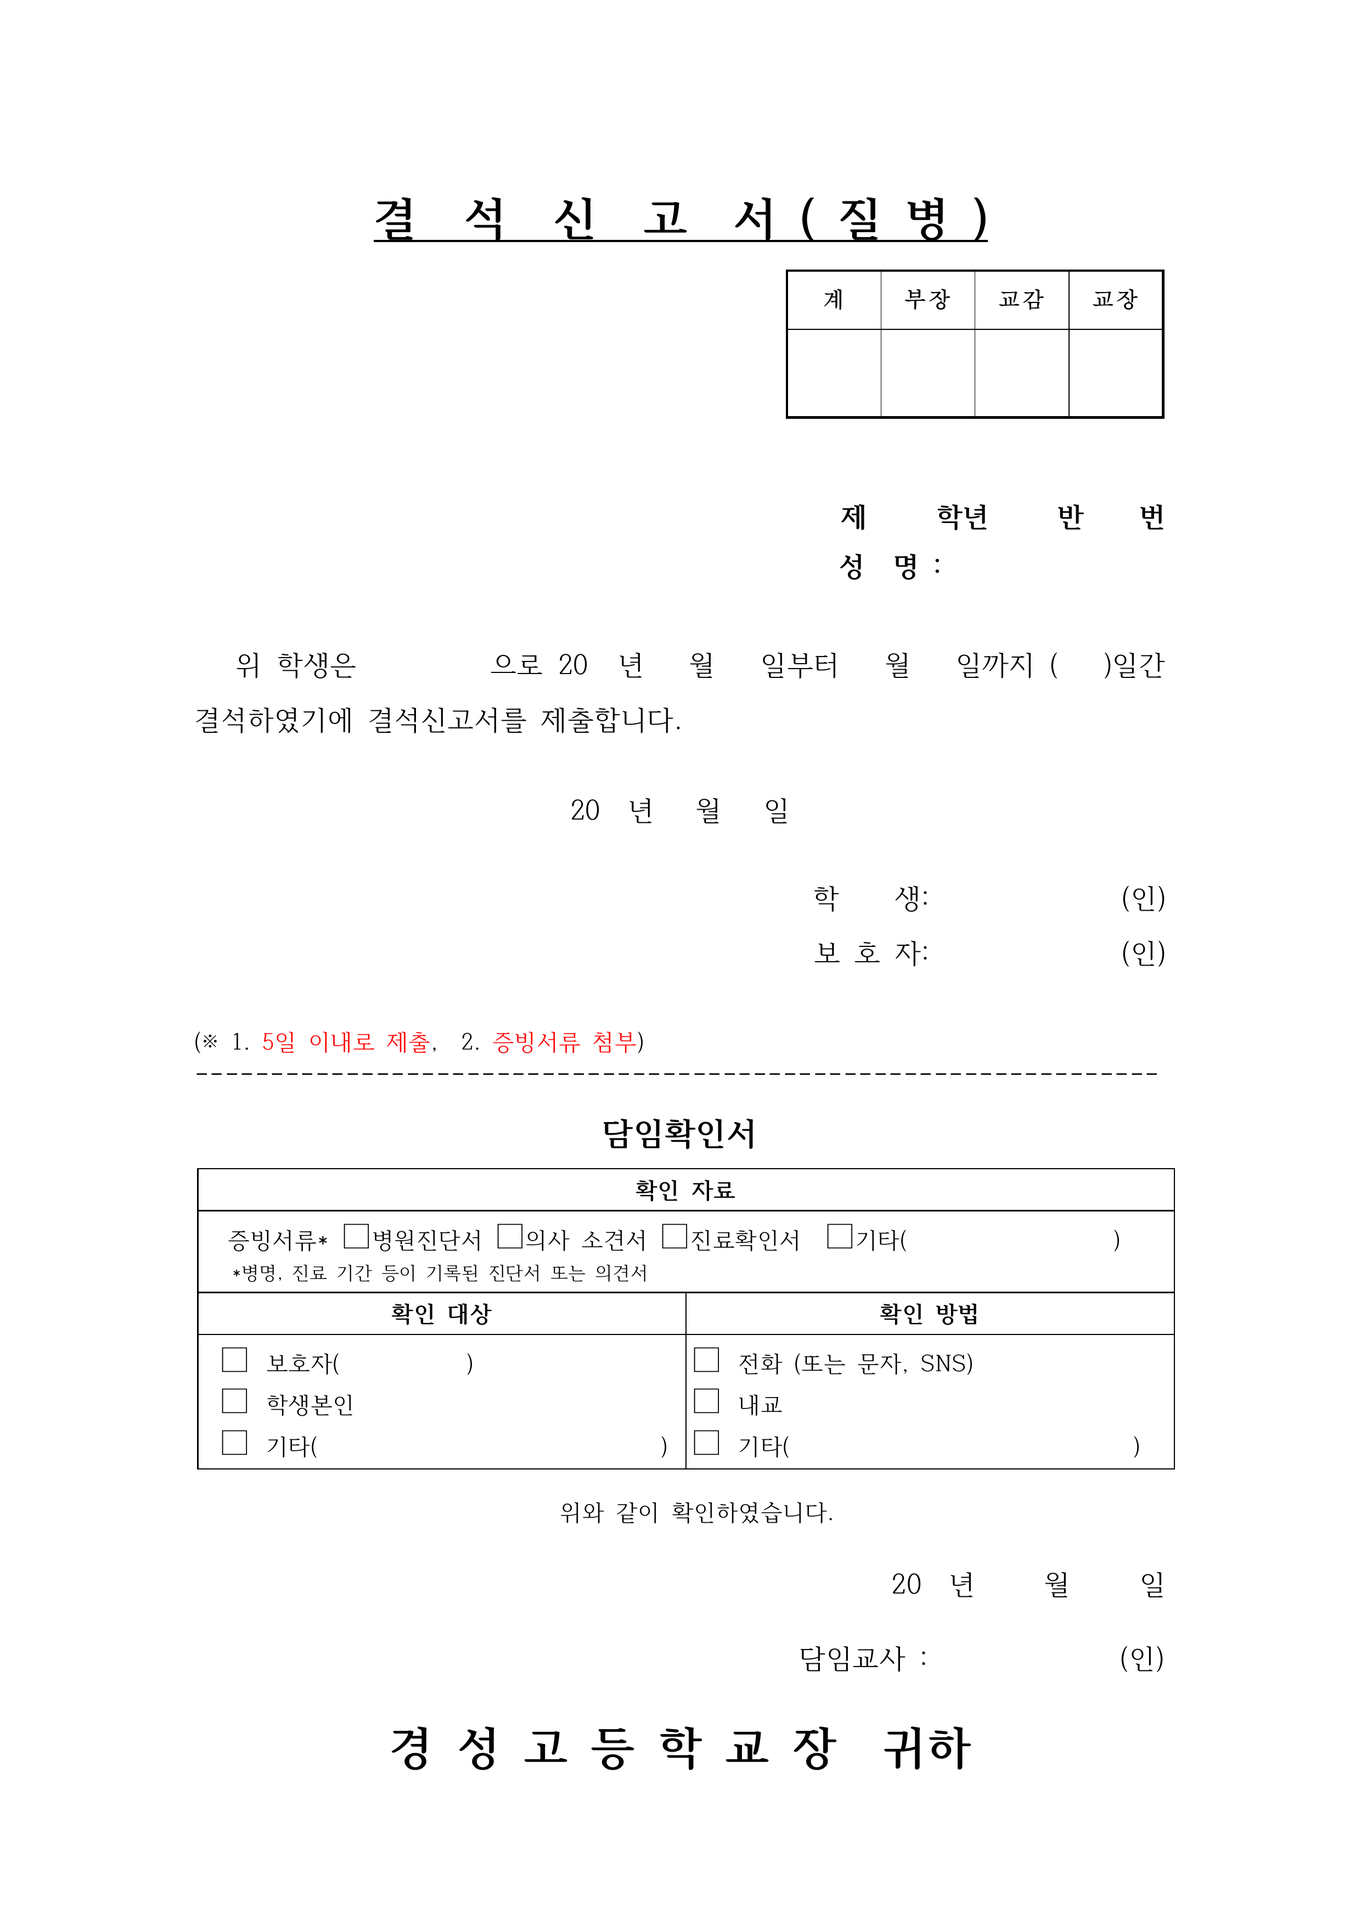
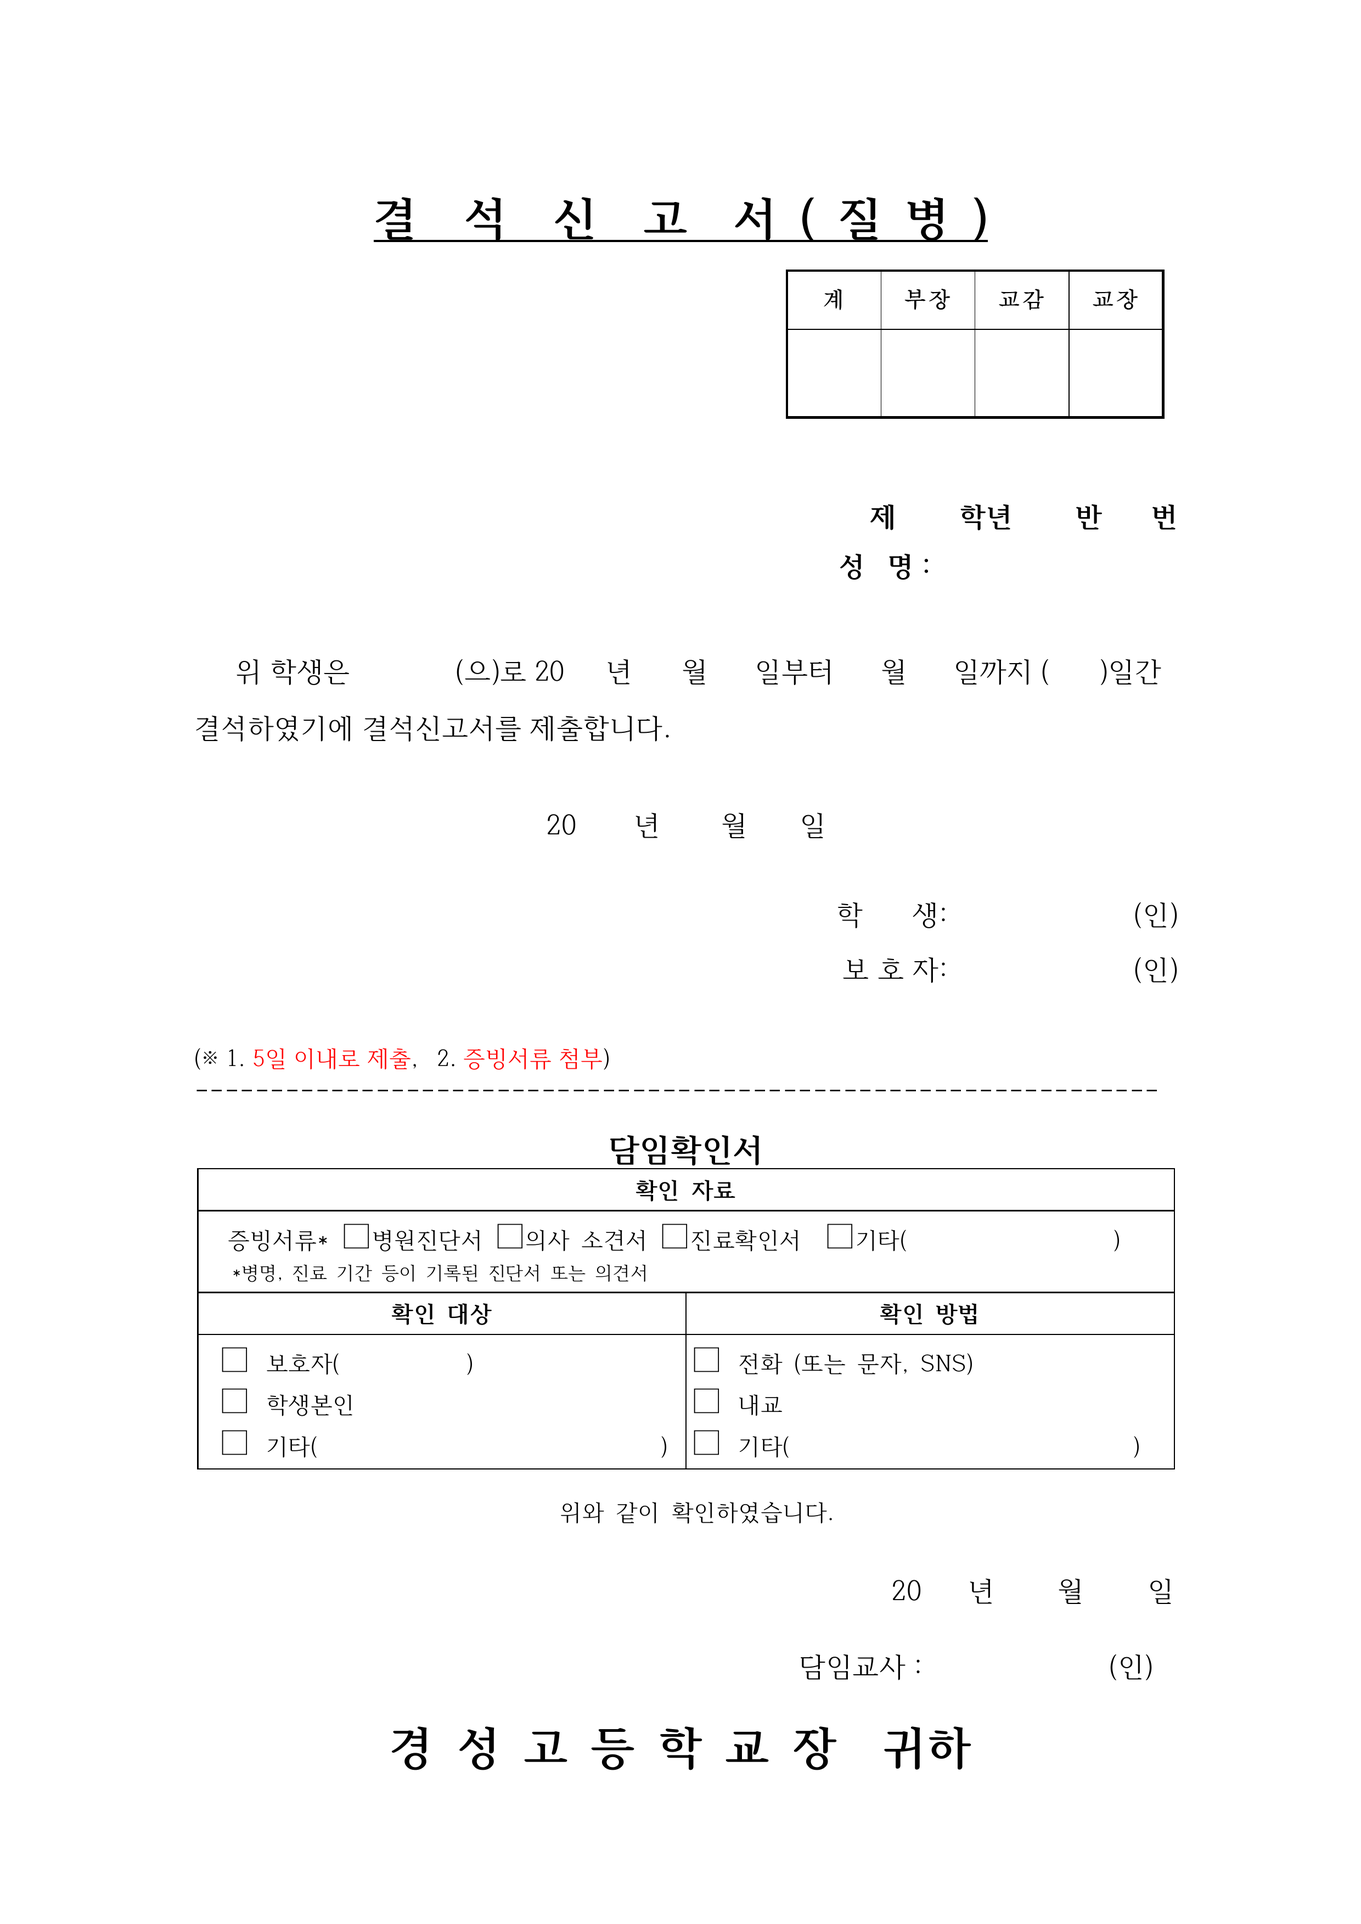
결석신고서: 서명칸 2배 확대, 새 양식 이미지로 교체, 손글씨 예시 참고해 굵기/크기 재조정
- 서명 입력 캔버스 높이를 2배로(aspect-ratio 700/200 -> 700/400)
- 사용자가 만든 두 번째 양식 PDF(날짜 칸 간격 확대)로 absence-report-form.png 교체
- FIELD_BOXES 전체를 새 PDF의 pdftotext -bbox 좌표로 다시 추출
- 학번/사유/결석기간/제출일 날짜에 font-weight:800(.ov-emphasis) 적용,
  확인일자/서명 이름은 기존 굵기 유지 - 사용자가 보낸 손글씨 예시 참고
- 학번/이름 칸 크기 증가폭을 h+5.5 -> h+3.0으로 낮춤(세로 클리핑 안전
  마진 재검증, 실제 스크린샷으로 가시적 클리핑 없음 확인)

diff --git a/absence-report.html b/absence-report.html
@@ -86,6 +86,13 @@
   .ov-text{ position:absolute; display:flex; align-items:center; font-weight:600; color:#15202e; font-size:13px; line-height:1; white-space:nowrap; overflow:hidden; font-family:'Noto Sans KR',sans-serif; }
   .ov-text.ov-center{ justify-content:center; text-align:center; }
   .ov-text.ov-left{ justify-content:flex-start; padding-left:3%; }
+  /* 이름칸(학생 이름, 보호자 성명)만 자간을 조금 넓힌다 — 사유/날짜/학번 등
+     다른 .ov-text 필드는 이 클래스가 없어 영향받지 않는다. */
+  .ov-text.ov-name-field{ letter-spacing:0.04em; }
+  /* 학번(학년/반/번)·사유·결석 기간·제출일 — 사용자가 올려준 손글씨 예시
+     양식에서 이 칸들이 굵게 강조돼 있던 걸 참고해 font-weight를 더 올렸다.
+     확인일자(담임확인서)/서명 이름은 예시에서도 평범한 굵기라 그대로 둔다. */
+  .ov-text.ov-emphasis{ font-weight:800; }
   /* line-height:1이 빠져있으면 body의 기본값(1.5)을 그대로 물려받아, 줄 높이가
      font-size의 1.5배가 된다 — factor를 아무리 1.0 이하로 낮춰도 실제 줄 높이
      비율은 factor×1.5가 돼버려 여전히 세로로 잘린다(체크 표시/서명 이름에서
@@ -95,7 +102,7 @@
      "보호자:" 뒤 빈칸(원래 FIELD_BOXES.studentSign 등)에 작게, 서명은 그 옆이
      아니라 인쇄된 "(인)" 글자 위에 정가운데로 겹치도록 완전히 분리된 좌표
      (*SignImg, 아래 FIELD_BOXES 참고)에 따로 얹는다. */
-  .ov-sign-name{ position:absolute; display:flex; align-items:center; font-weight:600; color:#15202e; white-space:nowrap; overflow:hidden; font-family:'Noto Sans KR',sans-serif; margin-left:0.2em; line-height:1; }
+  .ov-sign-name{ position:absolute; display:flex; align-items:center; font-weight:600; color:#15202e; white-space:nowrap; overflow:hidden; font-family:'Noto Sans KR',sans-serif; margin-left:0.2em; line-height:1; letter-spacing:0.04em; }
   .ov-sign-img-box{ position:absolute; pointer-events:none; }
   .ov-sign-img{ width:100%; height:100%; object-fit:contain; filter:contrast(1.35); }
   .ov-sign-empty{ position:absolute; border:1px dashed rgba(38,64,133,0.32); border-radius:3px; }
@@ -116,7 +123,7 @@
   .modal-overlay{ position:fixed; inset:0; background:rgba(20,24,50,0.45); display:flex; align-items:center; justify-content:center; z-index:60; padding:16px; }
   .modal-box{ background:#fff; border-radius:12px; padding:20px 22px; max-width:480px; width:100%; max-height:90vh; overflow:auto; }
   .modal-box h3{ margin:0 0 12px; font-size:17.3px; color:var(--stamp); }
-  #signCanvas{ width:100%; aspect-ratio:700/200; border:1px solid var(--rule); border-radius:8px; background:#fff; touch-action:none; display:block; }
+  #signCanvas{ width:100%; aspect-ratio:700/400; border:1px solid var(--rule); border-radius:8px; background:#fff; touch-action:none; display:block; }
 
   .closed-note{ font-size:15.3px; color:var(--ink-soft); text-align:center; padding:30px 10px; }
 
@@ -235,7 +242,7 @@
     <h3 id="signModalTitle">서명</h3>
     <div id="signModalMsg"></div>
     <div class="field"><label id="signNameLabel">이름</label><input type="text" id="signNameInput"></div>
-    <div class="field"><label>서명</label><canvas id="signCanvas" width="700" height="200"></canvas></div>
+    <div class="field"><label>서명</label><canvas id="signCanvas" width="700" height="400"></canvas></div>
     <div class="btn-row">
       <button type="button" class="btn secondary small" id="btnClearSign">지우기</button>
       <button type="button" class="btn secondary small" id="btnCancelSign">취소</button>
@@ -266,61 +273,69 @@
     return location.origin + location.pathname.replace(/[^/]*$/, '') + 'absence-report.html?id=' + encodeURIComponent(id);
   }
 
-  // ===== 양식 이미지 위 좌표 맵 — absence-report-form.png(1653×2337px, 원본 PDF를
-  // 200dpi로 래스터화)에서 각 빈칸의 픽셀 bbox를 pdftotext -bbox로 뽑아 그대로 옮긴
+  // ===== 양식 이미지 위 좌표 맵 — absence-report-form.png(2480×3505px, 원본 PDF를
+  // 300dpi로 래스터화)에서 각 빈칸의 픽셀 bbox를 pdftotext -bbox로 뽑아 그대로 옮긴
   // 것. 퍼센트로 변환해 쓰므로 컨테이너 폭이 바뀌어도 항상 같은 칸 위에 얹힌다.
-  // absence-report-form.png은 300dpi(2480×3505px)로 래스터화한 원본 PDF 그대로다 —
-  // 서명/인쇄 품질이 흐려지지 않도록 처음 썼던 200dpi본에서 한 단계 올렸다(좌표는
-  // 전부 1.5배 스케일, 비율은 동일).
+  // ** 사용자가 직접 만든 두 번째 양식(날짜 쓰는 곳 간격을 넓힌 버전)으로 전면
+  // 교체됐다 — 모든 좌표를 그 새 PDF의 pdftotext -bbox 결과에서 처음부터 다시
+  // 뽑았다. 전체 쪽 크기(2480×3505)와 줄 높이(49.9 안팎)는 이전 양식과 거의
+  // 동일하지만, 날짜 칸들의 가로 폭은 눈에 띄게 넓어졌다(예: submitYear
+  // 49.9→88.9, confirmYear 49.9→69.0) — 그만큼 숫자가 가로로 잘릴 걱정 없이
+  // 더 여유 있게 들어간다.
   const IMG_W = 2480, IMG_H = 3505;
   const FIELD_BOXES = {
-    grade:        { x:1581.0, y:917.6,  w:124.5, h:49.9 },
-    classNo:      { x:1803.0, y:917.6,  w:124.5, h:49.9 },
-    no:           { x:1976.4, y:917.6,  w:99.9,  h:49.9 },
-    name:         { x:1716.0, y:1007.4, w:408.0, h:49.9 },
-    // 사유/결석 기간 줄은 전부 y:1195.2(원래 1187.2에서 +8 — "살짝 아래로"
-    // 요청에 맞춰 조정).
-    reason:       { x:649.5,  y:1195.2, w:244.0, h:49.9 },
-    startYear:    { x:1072.5, y:1195.2, w:53.8,  h:49.9 },
-    startMonth:   { x:1174.8, y:1195.2, w:81.0,  h:49.9 },
-    startDay:     { x:1304.2, y:1195.2, w:81.4,  h:49.9 },
-    endMonth:     { x:1531.2, y:1195.2, w:81.0,  h:49.9 },
-    endDay:       { x:1660.6, y:1195.2, w:80.8,  h:49.9 },
-    days:         { x:1929.9, y:1195.2, w:81.0,  h:49.9 },
-    submitYear:   { x:1094.4, y:1451.8, w:49.9,  h:49.9 },
-    submitMonth:  { x:1192.8, y:1451.8, w:75.0,  h:49.9 },
-    submitDay:    { x:1316.2, y:1451.8, w:75.0,  h:49.9 },
-    studentSign:  { x:1694.6, y:1611.8, w:349.8, h:49.9 },
-    guardianSign: { x:1694.6, y:1711.6, w:349.8, h:49.9 },
-    // 서명 이미지 전용 박스 — "(인)" 글자의 실제 인쇄 위치를 이미지 픽셀을 직접
-    // 스캔해 측정한 중심 좌표(학생/보호자 모두 x중심 2083.5)에, 줄 높이(49.9)의
-    // 1.8배 크기(세로 89.8, 가로는 서명 획 비율에 맞춰 2.2:1)로 겹쳐 얹는다.
-    // "(인)" 중심에 수학적으로는 정확히 맞혔지만, 그 1.8배 크기 때문에 아래로
-    // 뻗는 절반이 바로 아래 줄(※ 안내 문구)과 가까워 보여 "서명이 너무 아래로
-    // 들어간다"는 피드백을 받았다 — y를 20px(네이티브) 위로 올려 아래쪽 여유를
-    // 더 확보했다(위쪽은 학생/보호자 두 칸 사이 간격이 이미 넉넉해 그대로 둬도
-    // 서로 겹치지 않는다).
-    studentSignImg:  { x:1984.7, y:1572.1, w:197.6, h:89.8 },
-    guardianSignImg: { x:1984.7, y:1672.1, w:197.6, h:89.8 },
-    evHospital:   { x:621.6,  y:2220.5, w:56.8,  h:58.5 },
-    evOpinion:    { x:901.5,  y:2220.5, w:56.7,  h:58.5 },
-    evTreatment:  { x:1201.8, y:2220.5, w:56.7,  h:58.5 },
-    evOther:      { x:1502.7, y:2220.5, w:56.7,  h:58.5 },
-    evOtherText:  { x:1653.4, y:2238.6, w:375.0, h:41.4 },
-    targetGuardian:     { x:399.3, y:2445.8, w:56.7,  h:58.3 },
-    targetGuardianName: { x:620.0, y:2463.9, w:229.0, h:41.4 },
-    targetSelf:         { x:399.3, y:2521.2, w:56.7,  h:58.3 },
-    targetOther:        { x:399.3, y:2597.1, w:56.7,  h:58.3 },
-    targetOtherText:    { x:579.5, y:2615.2, w:624.5, h:41.4 },
-    methodPhone:      { x:1259.8, y:2445.8, w:56.7,  h:58.3 },
-    methodVisit:      { x:1259.8, y:2521.2, w:56.7,  h:58.3 },
-    methodOther:      { x:1259.8, y:2597.1, w:56.7,  h:58.3 },
-    methodOtherText:  { x:1440.0, y:2615.2, w:624.9, h:41.4 },
-    confirmYear:  { x:1679.6, y:2861.9, w:49.9,  h:49.9 },
-    confirmMonth: { x:1778.1, y:2861.9, w:124.8, h:49.9 },
-    confirmDay:   { x:1951.5, y:2861.9, w:124.8, h:49.9 },
-    teacherSign:  { x:1691.6, y:2997.1, w:349.8, h:49.9 },
-    teacherSignImg: { x:1981.7, y:2957.1, w:197.6, h:89.8 }
+    // grade/classNo/no/name(학번·이름)은 h를 49.9→52.9(+3.0 native px)로 살짝
+    // 키우고 y를 그 절반(1.5px)만큼 올려 중심을 유지한다 — factor는 그대로
+    // OV_TEXT_FACTOR(0.94, 이미 검증된 안전한 여유값)를 쓴다. 더 큰 폭(+5.5)을
+    // 시도했을 때 scrollHeight가 clientHeight보다 정수 px 반올림 경계에서 2px
+    // 더 벌어지는 걸 실측으로 확인해(기존 0.94 여유값 자체가 완전한 안전
+    // 마진은 아니라는 뜻), 실제 스크린샷으로도 깨끗하게 확인되는 +3.0 선에서
+    // 멈췄다 — "1포인트만"이라는 요청의 "그 이상은 넘기지 말라"는 취지에도
+    // 맞고, 담임확인서 기준(이 글 CLAUDE.md의 레퍼런스 손글씨 이미지)과 비교해
+    // 뚜렷이 커 보이는 걸 스크린샷으로 확인했다.
+    grade:        { x:1641.6, y:916.0,  w:98.9,  h:52.9 },
+    classNo:      { x:1853.5, y:916.0,  w:98.9,  h:52.9 },
+    no:           { x:2016.9, y:916.0,  w:73.9,  h:52.9 },
+    name:         { x:1704.6, y:1005.9, w:435.4, h:52.9 },
+    // 사유/결석 기간 줄은 "조금 더 위로" 요청에 맞춰 y를 8px(네이티브) 올렸다.
+    reason:       { x:646.1,  y:1191.2, w:176.4, h:50.0 },
+    startYear:    { x:1037.4, y:1191.2, w:59.0,  h:50.0 },
+    startMonth:   { x:1160.9, y:1191.2, w:73.9,  h:50.0 },
+    startDay:     { x:1299.3, y:1191.2, w:68.5,  h:50.0 },
+    endMonth:     { x:1529.2, y:1191.2, w:68.0,  h:50.0 },
+    endDay:       { x:1661.6, y:1191.2, w:68.0,  h:50.0 },
+    days:         { x:1922.0, y:1191.2, w:74.0,  h:50.0 },
+    submitYear:   { x:1058.7, y:1478.9, w:88.9,  h:49.9 },
+    submitMonth:  { x:1212.1, y:1478.9, w:93.9,  h:49.9 },
+    submitDay:    { x:1370.5, y:1478.9, w:79.0,  h:49.9 },
+    studentSign:  { x:1735.1, y:1641.7, w:323.8, h:49.9 },
+    guardianSign: { x:1735.1, y:1741.6, w:323.8, h:49.9 },
+    // 서명 이미지 전용 박스 — "(인)" 글자의 실제 인쇄 위치를 중심으로, 줄
+    // 높이(49.9)의 1.8배 크기(세로 89.8, 가로는 서명 획 비율에 맞춰 2.2:1)로
+    // 겹쳐 얹는다. 아래로 뻗는 절반이 바로 아래 줄과 가까워 보이지 않도록
+    // y를 20px(네이티브) 위로 올린 기존 보정을 그대로 유지했다 — 새 양식도
+    // 학생/보호자 두 줄 사이 간격(99.9px)이 이전과 거의 같아 그대로 안전하다.
+    studentSignImg:  { x:2008.3, y:1601.8, w:197.6, h:89.8 },
+    guardianSignImg: { x:2008.3, y:1701.7, w:197.6, h:89.8 },
+    evHospital:   { x:621.7,  y:2224.5, w:56.7,  h:58.4 },
+    evOpinion:    { x:901.5,  y:2224.5, w:56.7,  h:58.4 },
+    evTreatment:  { x:1201.8, y:2224.5, w:56.7,  h:58.4 },
+    evOther:      { x:1502.7, y:2224.5, w:56.7,  h:58.4 },
+    evOtherText:  { x:1661.4, y:2238.6, w:359.0, h:41.4 },
+    targetGuardian:     { x:399.3, y:2449.8, w:56.7,  h:58.4 },
+    targetGuardianName: { x:627.9, y:2463.9, w:213.1, h:41.5 },
+    targetSelf:         { x:399.3, y:2525.2, w:56.7,  h:58.4 },
+    targetOther:        { x:399.3, y:2601.1, w:56.7,  h:58.4 },
+    targetOtherText:    { x:587.5, y:2615.2, w:608.4, h:41.5 },
+    methodPhone:      { x:1259.8, y:2449.8, w:56.7,  h:58.4 },
+    methodVisit:      { x:1259.8, y:2525.2, w:56.7,  h:58.4 },
+    methodOther:      { x:1259.8, y:2601.1, w:56.7,  h:58.4 },
+    methodOtherText:  { x:1448.0, y:2615.2, w:608.9, h:41.5 },
+    confirmYear:  { x:1687.6, y:2873.9, w:69.0,  h:49.9 },
+    confirmMonth: { x:1821.0, y:2873.9, w:98.9,  h:49.9 },
+    confirmDay:   { x:1984.4, y:2873.9, w:98.9,  h:49.9 },
+    teacherSign:  { x:1689.6, y:3012.2, w:323.8, h:49.9 },
+    teacherSignImg: { x:1962.8, y:2972.3, w:197.6, h:89.8 }
   };
   function pctBox(b){
     return `left:${(b.x/IMG_W*100).toFixed(3)}%; top:${(b.y/IMG_H*100).toFixed(3)}%; width:${(b.w/IMG_W*100).toFixed(3)}%; height:${(b.h/IMG_H*100).toFixed(3)}%;`;
@@ -371,9 +386,9 @@
   // 조금 더 키워도 된다 — 세로로 잘리지 않는 1.0 이하 선에서, "숫자가 좀 더
   // 커 보였으면 좋겠다"는 요청에 맞춰 0.85를 쓴다.
   const DATE_NUM_FACTOR = 0.85;
-  function fieldText(box, text, align, factor){
+  function fieldText(box, text, align, factor, extraClass){
     if(text === null || text === undefined || text === '') return '';
-    return `<div class="ov-text ov-${align || 'center'}" style="${pctBox(box)} font-size:${ovFontSize(box, factor || OV_TEXT_FACTOR)};">${escapeHtml(text)}</div>`;
+    return `<div class="ov-text ov-${align || 'center'}${extraClass ? ' ' + extraClass : ''}" style="${pctBox(box)} font-size:${ovFontSize(box, factor || OV_TEXT_FACTOR)};">${escapeHtml(text)}</div>`;
   }
   function fieldCheck(box, checked){
     return checked ? `<div class="ov-check" style="${pctBox(box)} font-size:${ovFontSize(box, OV_TEXT_FACTOR)};">✓</div>` : '';
@@ -397,20 +412,20 @@
     const start = ymd(r.start_date), end = ymd(r.end_date), sub = ymd(r.submit_date), conf = ymd(r.confirm_date);
     let html = `<div class="form-overlay-wrap">
       <img src="./absence-report-form.png" class="form-overlay-img" alt="결석신고서 양식">
-      ${fieldText(FIELD_BOXES.grade, r.grade, 'center')}
-      ${fieldText(FIELD_BOXES.classNo, r.class_no, 'center')}
-      ${fieldText(FIELD_BOXES.no, r.no, 'center')}
-      ${fieldText(FIELD_BOXES.name, r.student_name, 'left')}
-      ${fieldText(FIELD_BOXES.reason, r.reason, 'center')}
-      ${fieldText(FIELD_BOXES.startYear, start.y, 'center', DATE_NUM_FACTOR)}
-      ${fieldText(FIELD_BOXES.startMonth, start.m, 'center', DATE_NUM_FACTOR)}
-      ${fieldText(FIELD_BOXES.startDay, start.d, 'center', DATE_NUM_FACTOR)}
-      ${fieldText(FIELD_BOXES.endMonth, end.m, 'center', DATE_NUM_FACTOR)}
-      ${fieldText(FIELD_BOXES.endDay, end.d, 'center', DATE_NUM_FACTOR)}
-      ${fieldText(FIELD_BOXES.days, r.days_count, 'center', DATE_NUM_FACTOR)}
-      ${fieldText(FIELD_BOXES.submitYear, sub.y, 'center', DATE_NUM_FACTOR)}
-      ${fieldText(FIELD_BOXES.submitMonth, sub.m, 'center', DATE_NUM_FACTOR)}
-      ${fieldText(FIELD_BOXES.submitDay, sub.d, 'center', DATE_NUM_FACTOR)}
+      ${fieldText(FIELD_BOXES.grade, r.grade, 'center', null, 'ov-emphasis')}
+      ${fieldText(FIELD_BOXES.classNo, r.class_no, 'center', null, 'ov-emphasis')}
+      ${fieldText(FIELD_BOXES.no, r.no, 'center', null, 'ov-emphasis')}
+      ${fieldText(FIELD_BOXES.name, r.student_name, 'left', null, 'ov-name-field')}
+      ${fieldText(FIELD_BOXES.reason, r.reason, 'center', null, 'ov-emphasis')}
+      ${fieldText(FIELD_BOXES.startYear, start.y, 'center', DATE_NUM_FACTOR, 'ov-emphasis')}
+      ${fieldText(FIELD_BOXES.startMonth, start.m, 'center', DATE_NUM_FACTOR, 'ov-emphasis')}
+      ${fieldText(FIELD_BOXES.startDay, start.d, 'center', DATE_NUM_FACTOR, 'ov-emphasis')}
+      ${fieldText(FIELD_BOXES.endMonth, end.m, 'center', DATE_NUM_FACTOR, 'ov-emphasis')}
+      ${fieldText(FIELD_BOXES.endDay, end.d, 'center', DATE_NUM_FACTOR, 'ov-emphasis')}
+      ${fieldText(FIELD_BOXES.days, r.days_count, 'center', DATE_NUM_FACTOR, 'ov-emphasis')}
+      ${fieldText(FIELD_BOXES.submitYear, sub.y, 'center', DATE_NUM_FACTOR, 'ov-emphasis')}
+      ${fieldText(FIELD_BOXES.submitMonth, sub.m, 'center', DATE_NUM_FACTOR, 'ov-emphasis')}
+      ${fieldText(FIELD_BOXES.submitDay, sub.d, 'center', DATE_NUM_FACTOR, 'ov-emphasis')}
       ${fieldSign(FIELD_BOXES.studentSign, FIELD_BOXES.studentSignImg, r.student_name_signed, r.student_signature)}
       ${fieldSign(FIELD_BOXES.guardianSign, FIELD_BOXES.guardianSignImg, r.guardian_name_signed, r.guardian_signature)}`;
     if(includeConfirm){
@@ -422,7 +437,7 @@
         ${fieldCheck(FIELD_BOXES.evOther, ev.indexOf('기타') >= 0)}
         ${ev.indexOf('기타') >= 0 ? fieldText(FIELD_BOXES.evOtherText, r.evidence_other_text, 'left') : ''}
         ${fieldCheck(FIELD_BOXES.targetGuardian, r.confirm_target === '보호자')}
-        ${r.confirm_target === '보호자' ? fieldText(FIELD_BOXES.targetGuardianName, r.confirm_target_name, 'center') : ''}
+        ${r.confirm_target === '보호자' ? fieldText(FIELD_BOXES.targetGuardianName, r.confirm_target_name, 'center', null, 'ov-name-field') : ''}
         ${fieldCheck(FIELD_BOXES.targetSelf, r.confirm_target === '학생본인')}
         ${fieldCheck(FIELD_BOXES.targetOther, r.confirm_target === '기타')}
         ${r.confirm_target === '기타' ? fieldText(FIELD_BOXES.targetOtherText, r.confirm_target_other, 'left') : ''}
@@ -498,7 +513,7 @@
   let signPad = null, currentSignReportId = null, currentSignRole = null, onSignDone = null;
   function setupSignatureCanvas(canvas){
     const cssW = canvas.clientWidth || 700;
-    const cssH = canvas.clientHeight || Math.round(cssW * 200 / 700);
+    const cssH = canvas.clientHeight || Math.round(cssW * 400 / 700);
     const dpr = window.devicePixelRatio || 1;
     canvas.width = Math.round(cssW * dpr);
     canvas.height = Math.round(cssH * dpr);
